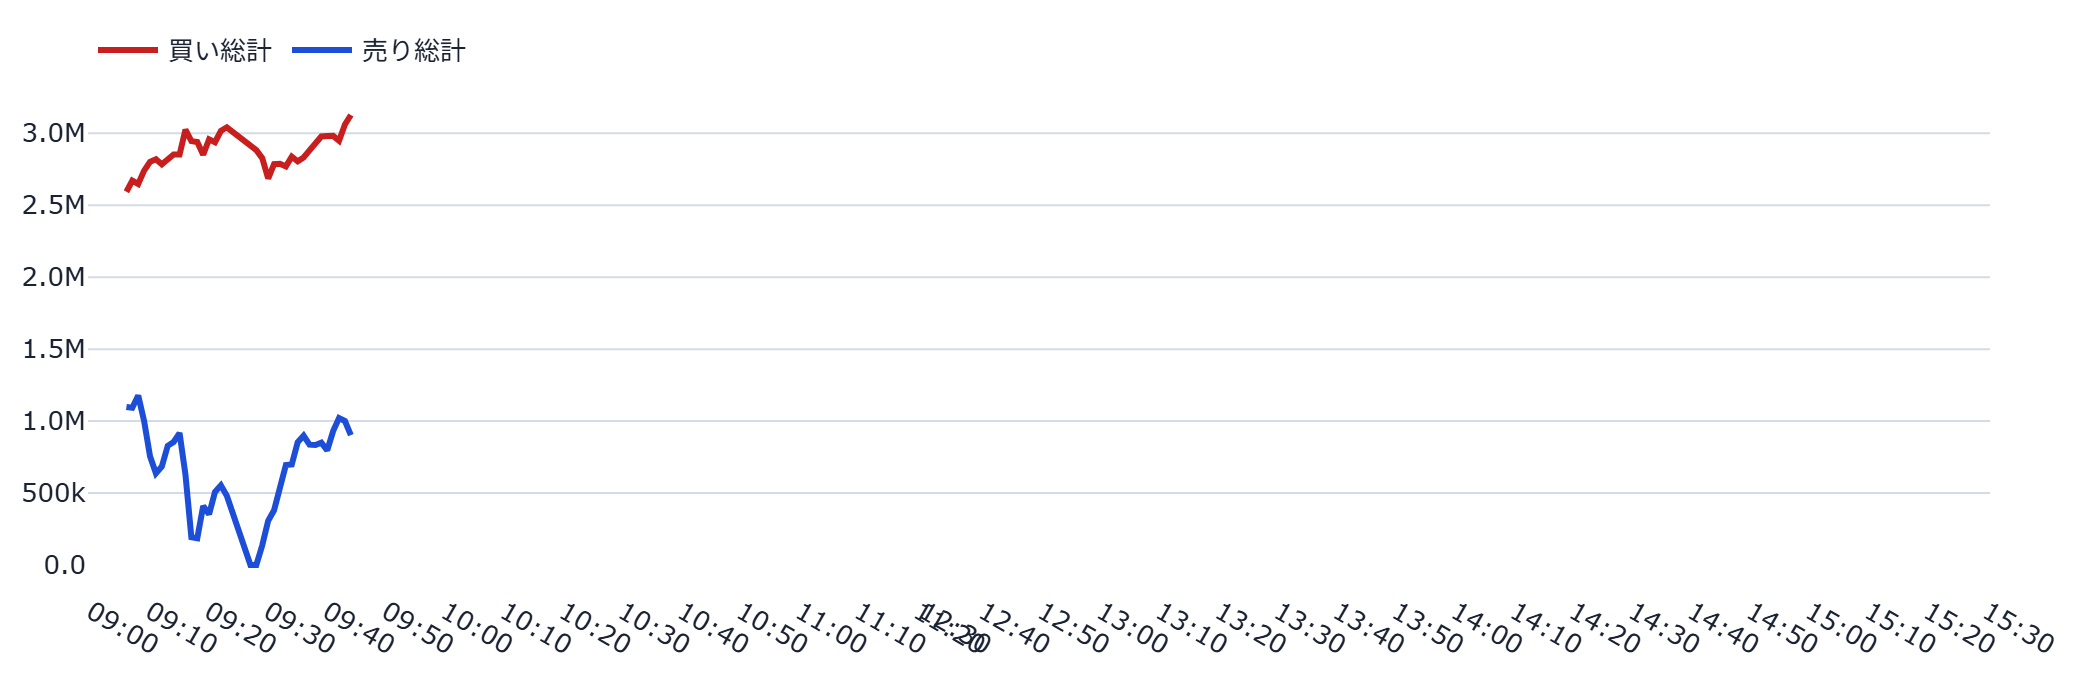
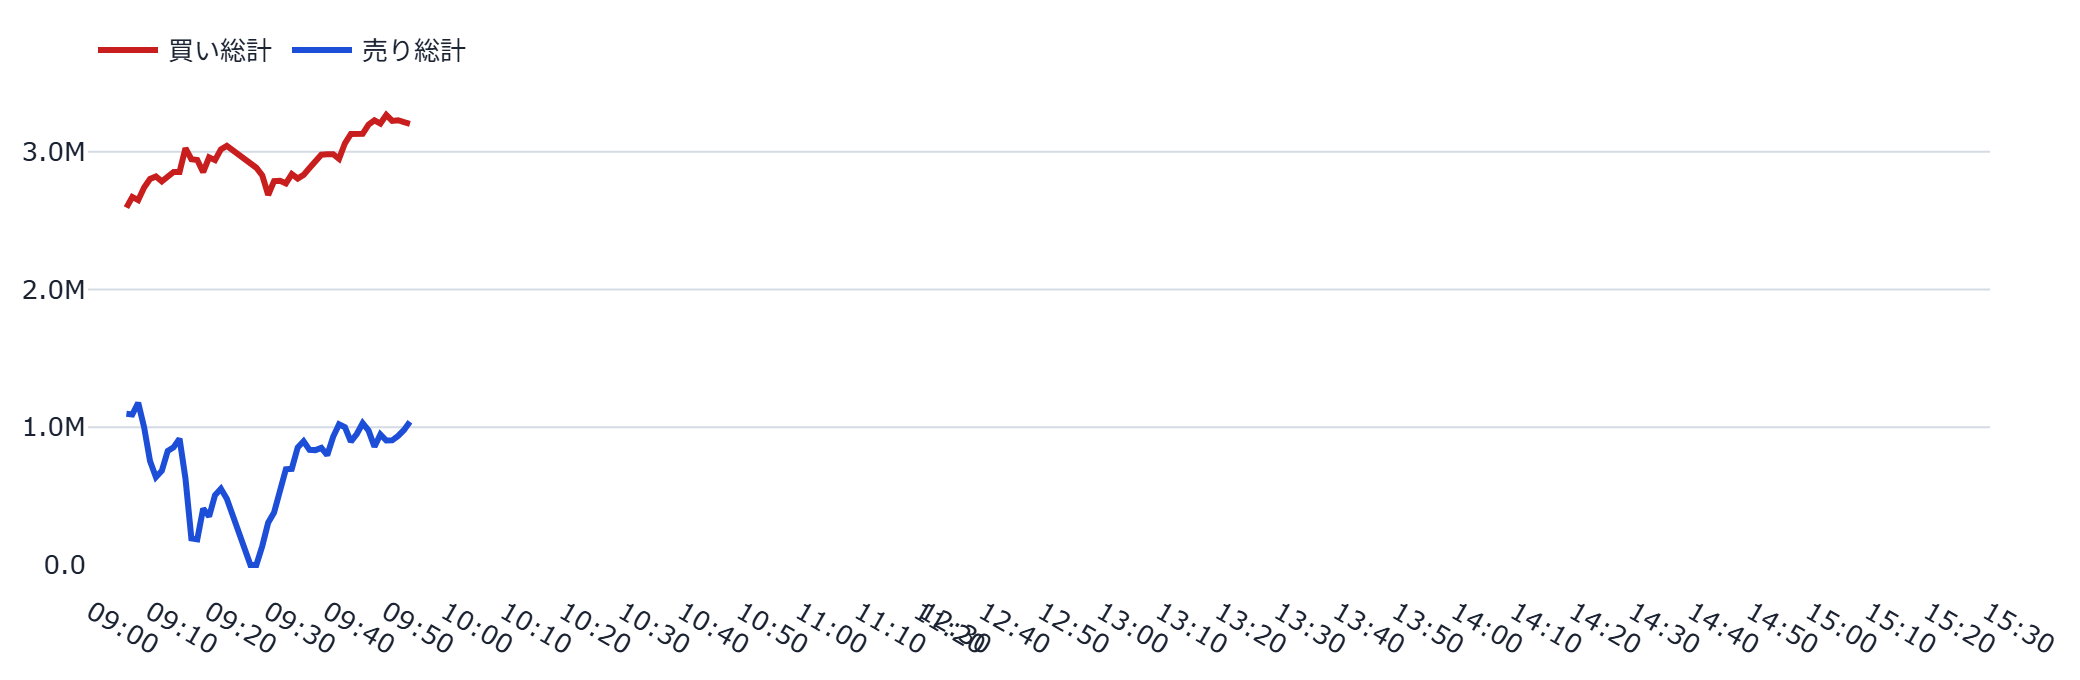
auto: refresh static dashboard (2026-11-26 09:55:10 JST)

diff --git a/docs/index.html b/docs/index.html
@@ -159,13 +159,13 @@
       <div class="panel header">
         <span class="symbol">285A</span>
         <span class="company">キオクシアホールディングス</span>
-        <span class="price">7,828円</span>
-        <span class="chg" style="color:#C81E1E">+13.53%</span>
+        <span class="price">7,827円</span>
+        <span class="chg" style="color:#C81E1E">+13.52%</span>
       </div>
       <p class="caption">更新時刻: 2026-11-26T09:37:25（データは1分間隔で自動生成され、このページも
       60秒毎に自動再読み込みされます）</p>
-      <p class='caption'>⚠ データの更新が約8分前から止まっている可能性があります(通常は1分毎に自動生成)。</p>
-      <p id='visit-count-badge' class='caption'>👀 累計閲覧数: 15,343</p>
+      <p class='caption'>⚠ データの更新が約18分前から止まっている可能性があります(通常は1分毎に自動生成)。</p>
+      <p id='visit-count-badge' class='caption'>👀 累計閲覧数: 15,345</p>
       <p id='like-button-wrap' class='caption'><button id='like-button' type='button' style='cursor:pointer;border:1px solid var(--border);border-radius:6px;padding:1px 10px;margin-right:6px;background:var(--panel);color:var(--text);font-size:1em;vertical-align:middle'>👍</button><span id='like-count-label'>このダッシュボードが役に立ったら押してください（累計 4 いいね）</span></p>
 
       <!-- ★2026-11-23(ユーザー指示「おにやの公開ダッシュボードもタブの再整理・分割」): AI考察を独立タブ(先頭・既定)にし、
@@ -185,11 +185,11 @@
 
       <section data-tab-panel="aiinsight">
         <h2>🤖 AI考察</h2>
-        <div class='sum3' id='sum3'><div class='l'><span class='k'>値位置・時間外</span><span>285A 7,828円(前営業日終値比 +13.53%)｜11/26 09:37時点｜時間外(東証最終値比) DEX +0.51%</span></div><div class='l'><span class='k'>需給・セリクラ</span><span>セリクラ成立チェック(1/3)(11/26 09:44時点)｜板の買い/売り比 3.71(11/26 09:44時点)</span></div><div class='l'><span class='k'>掲示板の心理</span><span>投稿の弱気 55.7%・強気 36.4%(本日5,411件)｜11/26 09:37時点</span></div><div class='n'>公開レコードの数値の言い換えです(予想ではありません)。</div></div>
+        <div class='sum3' id='sum3'><div class='l'><span class='k'>値位置・時間外</span><span>285A 7,827円(前営業日終値比 +13.52%)｜11/26 09:37時点｜時間外(東証最終値比) DEX +0.51%</span></div><div class='l'><span class='k'>需給・セリクラ</span><span>セリクラ成立チェック(0/3)(11/26 09:54時点)｜板の買い/売り比 3.01(11/26 09:54時点)</span></div><div class='l'><span class='k'>掲示板の心理</span><span>投稿の弱気 55.7%・強気 36.4%(本日5,411件)｜11/26 09:37時点</span></div><div class='n'>公開レコードの数値の言い換えです(予想ではありません)。</div></div>
         <div class='panel' id='ai-schedule'><h3>🗓 AI考察の予定</h3><ul><li>平日の立会日に、寄り前 08:50／寄り直後 09:10／前場引け前 11:30／大引け後 15:45 の4時点で考察を更新します（考察はClaude(AI)が書きます）。</li><li>土日祝などの休場日は考察を書きません。</li><li>時点の間は、数値のみを約10分ごとに更新します（文章は次の時点まで更新されません）。</li><li>次の予定: 11-26 11:30（前場引け前）／直近の更新: 11-26 09:10（自動生成）</li></ul></div>
-        <div class='panel' id='numeric-summary'><h3>📊 数値要約｜09:37 更新</h3><ul><li>株価: 7,828円（前営業日終値比 +13.53%）</li><li>掲示板: 強気 36.4%／弱気 55.7%／中立 7.9%・投稿 5,411件（約541件/時）</li><li>シグナル: 警戒＝灼熱メーター(過熱)(34.8)・イナゴ語彙(euphoria)(4.5)／平常＝そう思う大量票(32)・ネームド集中(0.03)・他銘柄混入率(0.02)・暴落煽り語彙(2.8)ほか</li><li>板・価格・見立て採点（参考・機械採点）: 板 買い/売り比 3.71（11/26 09:44時点）／約定ティック直近値 7,828円・VWAP距離 +157.2円（詳細は下の『板・価格まわり・見立ての採点』）</li><li>変化の読み: 東証: 5分 +0.27%・15分 -0.55%(取引が疎で、加速/減速の判定はしない)</li><li>変化の読み: PTS: 上昇が同程度のペースで継続(5分 +0.53%・1時間 +11.53%)／直近3時間の高値圏</li><li>変化の読み: DEX: 上昇基調だが勢いは鈍化(5分 +0.44%は1時間 +11.01%のペースより遅い)／直近3時間の高値圏</li><li>変化の読み: 同時間帯の比較(東証・PTS・DEX): 向きは上昇で揃っている</li><li>変化の読み: 東証ザラ場現値とDEXの乖離: DEX 7,807円は東証現値 7,830円より-0.29%(DEXは東証とは別の取引で、東証に先行して動くことがある参考指標・予告ではない・最終値の時刻差 5分)</li><li>変化点: 前営業日終値比 +4.38pt・投稿 +476件</li></ul><div class='rc-wrap' id='recent-table'><table class='rc'><caption>直近変化（東証行の終値比は前営業日終値比、PTS・ADR・DEXは東証最終値比。最終約定から120分超の行は薄グレー＝立会時間外）</caption><thead><tr><th>市場</th><th>最終値(円)</th><th>終値比</th><th>5分</th><th>15分</th><th>1時間</th><th>最終約定</th></tr></thead><tbody><tr class=''><td>東証</td><td>7,830</td><td class='pos'>+13.53%</td><td class='pos'>+0.27%</td><td class='neg'>-0.55%</td><td class=''>—</td><td>11/26 09:44</td></tr><tr class=''><td>PTS</td><td>7,838</td><td class=''>—</td><td class='pos'>+0.53%</td><td class='neg'>-0.72%</td><td class='pos'>+11.53%</td><td>11/26 09:40</td></tr><tr class='stale'><td>米国ADR(立会時間外)</td><td>6,973</td><td class=''>—</td><td class='pos'>+0.90%</td><td class='pos'>+1.62%</td><td class='pos'>+0.01%</td><td>11/26 05:59</td></tr><tr class=''><td>DEX</td><td>7,807</td><td class='pos'>+0.51%</td><td class='pos'>+0.44%</td><td class='neg'>-0.96%</td><td class='pos'>+11.01%</td><td>11/26 09:40</td></tr></tbody></table></div><p class='caption'>強気・弱気は機械判定（辞書＋軽量モデル）の値です。日単位の向きはLM判定と近く（相関0.8台）、時間単位は粗い点に注意してください。</p></div>
-        <div class='panel' id='screen-extras'><h3>🧭 板・価格まわり・見立ての採点（参考）</h3><ul><li>11/26 09:44時点｜買い総量 315.8万株／売り総量 85.2万株／比 3.71／差 +230.6万株</li><li>直近30秒: 買い +2.7万株(増加)／売り -5.2万株(減少)</li><li>直近1分: 買い +7.4万株(増加)／売り -18.2万株(減少)</li><li>直近3分: 買い +14.6万株(増加)／売り -10.9万株(減少)</li><li>直近5分: 買い +15.9万株(増加)／売り +7.4万株(増加)</li><li>11/26 09:44時点｜約定ティック直近値 7,828円(ヘッダーの株価とは取得元・時刻が異なる)／VWAP 7,670.8円（距離 +157.2円・+2.05%）</li><li>出来高 4,023.8万株／売買代金(試算) 3,086.6億円／日中高値 7,895円・安値 7,208円</li></ul><p class='caption'>板情報・約定ティック(遅延あり)から作成。売買代金は試算(VWAP×出来高)。</p></div>
-        <div class='metric-row'><div class='metric-card'><div class='metric-label'>株価</div><div class='metric-value'>7,828円</div><div class='metric-delta'>+302円</div></div><div class='metric-card'><div class='metric-label'>強気比率</div><div class='metric-value'>36.4%</div><div class='metric-delta'>+0.2pt</div></div><div class='metric-card'><div class='metric-label'>弱気比率</div><div class='metric-value'>55.7%</div><div class='metric-delta'>+0.1pt</div></div></div><p class='caption'>前回集計(2026-11-26T09:27:48)との比較</p>
+        <div class='panel' id='numeric-summary'><h3>📊 数値要約｜09:37 更新</h3><ul><li>株価: 7,827円（前営業日終値比 +13.52%）</li><li>掲示板: 強気 36.4%／弱気 55.7%／中立 7.9%・投稿 5,411件（約541件/時）</li><li>シグナル: 警戒＝灼熱メーター(過熱)(34.8)・イナゴ語彙(euphoria)(4.5)／平常＝そう思う大量票(32)・ネームド集中(0.03)・他銘柄混入率(0.02)・暴落煽り語彙(2.8)ほか</li><li>板・価格・見立て採点（参考・機械採点）: 板 買い/売り比 3.01（11/26 09:54時点）／約定ティック直近値 7,826円・VWAP距離 +140.2円（詳細は下の『板・価格まわり・見立ての採点』）</li><li>変化の読み: 東証: 5分 -0.25%・15分 +0.23%(取引が疎で、加速/減速の判定はしない)</li><li>変化の読み: PTS: 1時間では上昇(+11.38%)だが直近5分は下げている(-0.10%)＝上昇基調の中の押し(短い窓だけの動きで、続くかは未確認)／直近3時間の高値圏</li><li>変化の読み: DEX: 上昇基調だが勢いは鈍化(5分 +0.23%は1時間 +11.13%のペースより遅い)／直近3時間の高値圏</li><li>変化の読み: 同時間帯の比較(東証・PTS・DEX): 向きが分かれている(上昇=DEX／下落=PTS)</li><li>変化の読み: 東証ザラ場現値とDEXの乖離: DEX 7,830円は東証現値 7,827円より+0.04%(DEXは東証とは別の取引で、東証に先行して動くことがある参考指標・予告ではない・最終値の時刻差 5分)</li><li>変化点: 前営業日終値比 +4.37pt・投稿 +476件</li></ul><div class='rc-wrap' id='recent-table'><table class='rc'><caption>直近変化（東証行の終値比は前営業日終値比、PTS・ADR・DEXは東証最終値比。最終約定から120分超の行は薄グレー＝立会時間外）</caption><thead><tr><th>市場</th><th>最終値(円)</th><th>終値比</th><th>5分</th><th>15分</th><th>1時間</th><th>最終約定</th></tr></thead><tbody><tr class=''><td>東証</td><td>7,827</td><td class='pos'>+13.52%</td><td class='neg'>-0.25%</td><td class='pos'>+0.23%</td><td class=''>—</td><td>11/26 09:54</td></tr><tr class=''><td>PTS</td><td>7,830</td><td class=''>—</td><td class='neg'>-0.10%</td><td class='pos'>+0.42%</td><td class='pos'>+11.38%</td><td>11/26 09:47</td></tr><tr class='stale'><td>米国ADR(立会時間外)</td><td>6,973</td><td class=''>—</td><td class='pos'>+0.90%</td><td class='pos'>+1.62%</td><td class='pos'>+0.01%</td><td>11/26 05:59</td></tr><tr class=''><td>DEX</td><td>7,830</td><td class='pos'>+0.51%</td><td class='pos'>+0.23%</td><td class='pos'>+0.74%</td><td class='pos'>+11.13%</td><td>11/26 09:50</td></tr></tbody></table></div><p class='caption'>強気・弱気は機械判定（辞書＋軽量モデル）の値です。日単位の向きはLM判定と近く（相関0.8台）、時間単位は粗い点に注意してください。</p></div>
+        <div class='panel' id='screen-extras'><h3>🧭 板・価格まわり・見立ての採点（参考）</h3><ul><li>11/26 09:54時点｜買い総量 319.6万株／売り総量 106.2万株／比 3.01／差 +213.4万株</li><li>直近30秒: 買い -0.4万株(減少)／売り +3.0万株(増加)</li><li>直近1分: 買い -3.4万株(減少)／売り +7.3万株(増加)</li><li>直近3分: 買い -0.0万株(減少)／売り +10.9万株(増加)</li><li>直近5分: 買い -4.4万株(減少)／売り +11.4万株(増加)</li><li>11/26 09:54時点｜約定ティック直近値 7,826円(ヘッダーの株価とは取得元・時刻が異なる)／VWAP 7,685.8円（距離 +140.2円・+1.82%）</li><li>出来高 4,431.6万株／売買代金(試算) 3,406.1億円／日中高値 7,895円・安値 7,208円</li></ul><p class='caption'>板情報・約定ティック(遅延あり)から作成。売買代金は試算(VWAP×出来高)。</p></div>
+        <div class='metric-row'><div class='metric-card'><div class='metric-label'>株価</div><div class='metric-value'>7,827円</div><div class='metric-delta'>+301円</div></div><div class='metric-card'><div class='metric-label'>強気比率</div><div class='metric-value'>36.4%</div><div class='metric-delta'>+0.2pt</div></div><div class='metric-card'><div class='metric-label'>弱気比率</div><div class='metric-value'>55.7%</div><div class='metric-delta'>+0.1pt</div></div></div><p class='caption'>前回集計(2026-11-26T09:27:48)との比較</p>
         <div class='ai-box'>※無料公開データを機械的に集計した観測情報であり、投資助言・売買推奨ではありません。（11-26 09:10時点・寄り直後の整理です）<br>
 <br>
 ■ 寄り付き<br>
@@ -222,7 +222,7 @@
           <div class="panel">
             <figure><img src='images/gauge_capitulation.png' alt='阿鼻叫喚メーター(セリクラ)' loading='lazy'></figure>
             <figure><img src='images/spark_capitulation.png' alt='阿鼻叫喚メーター推移' loading='lazy'></figure>
-            <div id='selloff-check' style='margin-top:8px'><b>🚦 セリクラ成立チェック(1/3)</b><span class='caption'>（11/26 09:44時点）</span><ul style='margin:4px 0;padding-left:1.2em'><li>⚪ 心理発火(阿鼻叫喚指数)</li><li>🟢 板買い転換(直近3分)</li><li>－ 出来高＋安値切り上げ</li></ul><div class='caption'>別表示(3点に数えない) VWAP回復: はい（現値7,828円・VWAP7,670.8円(距離+157.2円)）</div><div class='caption'>3点が揃っても底の確定ではありません。研究用・未検証の参考表示です。 板・約定ティックは遅延あり。</div></div>
+            <div id='selloff-check' style='margin-top:8px'><b>🚦 セリクラ成立チェック(0/3)</b><span class='caption'>（11/26 09:54時点）</span><ul style='margin:4px 0;padding-left:1.2em'><li>⚪ 心理発火(阿鼻叫喚指数)</li><li>⚪ 板買い転換(直近3分)</li><li>－ 出来高＋安値切り上げ</li></ul><div class='caption'>別表示(3点に数えない) VWAP回復: はい（現値7,826円・VWAP7,685.8円(距離+140.2円)）</div><div class='caption'>3点が揃っても底の確定ではありません。研究用・未検証の参考表示です。 板・約定ティックは遅延あり。</div></div>
           </div>
           <div class="panel">
             <h3>ボラ・レジーム帯</h3>
@@ -273,7 +273,7 @@
         <h2>📐 値動きの目安</h2>
         <div class="panel">
           <h3>支持線・抵抗線の目安（SD単位）</h3>
-          <table style='width:100%;border-collapse:collapse;font-size:.92em'><thead><tr><th style='text-align:left'>値幅の目安</th><th style='text-align:left'>上側の水準</th><th style='text-align:left'>下側の水準</th></tr></thead><tbody><tr><td>0.5SD（±4.26%）</td><td>8,161円</td><td>7,495円</td></tr><tr><td>1.0SD（±8.52%）</td><td>8,495円</td><td>7,161円</td></tr><tr><td>1.5SD（±12.77%）</td><td>8,828円</td><td>6,828円</td></tr></tbody></table><p class='caption'>直近14日間の最高値（2026-11-11・9,571円）からの乖離: -18.21%</p><p class='caption'>SDは直近14日間の日次終値リターンの標準偏差（8.52%/日）から算出した値幅の目安であり、到達を予測するものではありません。</p>
+          <table style='width:100%;border-collapse:collapse;font-size:.92em'><thead><tr><th style='text-align:left'>値幅の目安</th><th style='text-align:left'>上側の水準</th><th style='text-align:left'>下側の水準</th></tr></thead><tbody><tr><td>0.5SD（±4.26%）</td><td>8,160円</td><td>7,494円</td></tr><tr><td>1.0SD（±8.52%）</td><td>8,494円</td><td>7,160円</td></tr><tr><td>1.5SD（±12.77%）</td><td>8,827円</td><td>6,827円</td></tr></tbody></table><p class='caption'>直近14日間の最高値（2026-11-11・9,571円）からの乖離: -18.22%</p><p class='caption'>SDは直近14日間の日次終値リターンの標準偏差（8.52%/日）から算出した値幅の目安であり、到達を予測するものではありません。</p>
         </div>
         <div class="panel">
           <h3>本日の値動き ÷ 執行コストの推移</h3>
@@ -285,7 +285,7 @@
         <h2>🌐 市場コンテキスト・海外要因</h2>
         <div class="panel">
           <h3>市場コンテキスト</h3>
-          <div class='metric-row'><div class='metric-card'><div class='metric-label'>本日の値動きの型</div><div class='metric-value' style='font-size:1.05rem'>トレンド型</div><div class='metric-delta'>不確実性: 普段並み</div></div><div class='metric-card'><div class='metric-label'>値動き ÷ 執行コスト</div><div class='metric-value'>約490.2倍</div><div class='metric-delta'>費用実測2.76bp</div></div></div><p class='caption'>海外ピアの値動き・本日の値動きの型はいずれも事実の記述であり、翌営業日の値動きを予測するものではありません。値動き÷執行コストは値幅の大きさの目安であり、実際に利益を確保できることを意味しません。</p>
+          <div class='metric-row'><div class='metric-card'><div class='metric-label'>本日の値動きの型</div><div class='metric-value' style='font-size:1.05rem'>トレンド型</div><div class='metric-delta'>不確実性: 普段並み</div></div><div class='metric-card'><div class='metric-label'>値動き ÷ 執行コスト</div><div class='metric-value'>約489.9倍</div><div class='metric-delta'>費用実測2.76bp</div></div></div><p class='caption'>海外ピアの値動き・本日の値動きの型はいずれも事実の記述であり、翌営業日の値動きを予測するものではありません。値動き÷執行コストは値幅の大きさの目安であり、実際に利益を確保できることを意味しません。</p>
         </div>
 
         <h2>📰 関連ニュース（直近24時間）</h2>
@@ -318,7 +318,7 @@
       <hr style="border:none;border-top:1px solid var(--border);margin:2rem 0 1rem">
       <p class="caption">⚠ 本情報は掲示板投稿を統計的に集計したものであり、投資助言ではありません。個別の投稿内容は含まれていません。研究・エンタメ用途です。</p>
       <div id="disclaimer-all"><p class='caption'>板・約定ティックは遅延あり。売買の推奨ではありません。<br>見立ての採点は参考・機械採点で、売買の推奨ではありません。<br>※研究・エンタメ用途・未検証。売買シグナルではありません。<br>※ニュース見出しの要約であり、投資助言ではありません。</p></div>
-      <footer>生成: generate_static_dashboard.py（2026-11-26T09:45:03） /
+      <footer>生成: generate_static_dashboard.py（2026-11-26T09:55:04） /
       画像バックエンド: plotly+kaleido</footer>
     </div>
     <script>(function(){var url="https://script.google.com/macros/s/AKfycbwgSSGQ2n56ohmIYKlNDA1Xe3D8hd3GJbD0U90L4DGtXdb8pqrPokNMHJWjvN1__7bE/exec";var KEY='bbs_visit_counted';var already=sessionStorage.getItem(KEY);var action=already?'read':'hit';var ctrl=(typeof AbortController!=='undefined')?new AbortController():null;var timer=ctrl?setTimeout(function(){ctrl.abort();},5000):null;fetch(url+'?action='+action,{signal:ctrl?ctrl.signal:undefined}).then(function(r){if(timer)clearTimeout(timer);return r.json();}).then(function(data){if(!already)sessionStorage.setItem(KEY,'1');if(data&&typeof data.count==='number'){var el=document.getElementById('visit-count-badge');if(el){el.textContent='\u{1F440} \u7d2f\u8a08\u95b2\u89a7\u6570: '+data.count.toLocaleString();el.style.display='';}}}).catch(function(e){if(timer)clearTimeout(timer);console.warn('visit counter fetch failed (fail-soft):',e);});})();</script><script>(function(){var url="https://script.google.com/macros/s/AKfycbwgSSGQ2n56ohmIYKlNDA1Xe3D8hd3GJbD0U90L4DGtXdb8pqrPokNMHJWjvN1__7bE/exec";var KEY='bbs_liked';var btn=document.getElementById('like-button');var label=document.getElementById('like-count-label');if(!btn||!label)return;function renderLiked(count){btn.disabled=true;btn.style.cursor='default';btn.style.opacity='0.6';btn.textContent='\u2705';label.textContent="\u3044\u3044\u306d\u3057\u307e\u3057\u305f\uff01"+(typeof count==='number'?"\uff08\u7d2f\u8a08 "+count.toLocaleString()+" \u3044\u3044\u306d\uff09":'');}if(localStorage.getItem(KEY)){renderLiked(null);}btn.addEventListener('click',function(){if(localStorage.getItem(KEY))return;btn.disabled=true;var ctrl=(typeof AbortController!=='undefined')?new AbortController():null;var timer=ctrl?setTimeout(function(){ctrl.abort();},5000):null;fetch(url+'?action=like_hit',{signal:ctrl?ctrl.signal:undefined}).then(function(r){if(timer)clearTimeout(timer);return r.json();}).then(function(data){localStorage.setItem(KEY,'1');renderLiked(data&&typeof data.count==='number'?data.count:null);}).catch(function(e){if(timer)clearTimeout(timer);btn.disabled=false;console.warn('like button fetch failed (fail-soft):',e);});});})();</script><script>(function(){var DEFAULT_TAB='aiinsight';function activate(tabName){var buttons=document.querySelectorAll('.tab-bar .tab-btn');var panels=document.querySelectorAll('[data-tab-panel]');if(!buttons.length||!panels.length)return;var matched=false;panels.forEach(function(p){var on=p.getAttribute('data-tab-panel')===tabName;if(on)matched=true;p.classList.toggle('tab-hidden',!on);});if(!matched){panels.forEach(function(p){p.classList.toggle('tab-hidden',p.getAttribute('data-tab-panel')!==DEFAULT_TAB);});tabName=DEFAULT_TAB;}buttons.forEach(function(b){var on=b.getAttribute('data-tab')===tabName;b.classList.toggle('active',on);b.setAttribute('aria-selected',on?'true':'false');});}document.addEventListener('DOMContentLoaded',function(){var bar=document.getElementById('tabBar');if(!bar)return;bar.addEventListener('click',function(e){var btn=e.target.closest('.tab-btn');if(!btn)return;var nm=btn.getAttribute('data-tab');activate(nm);try{sessionStorage.setItem('oniya_active_tab',nm);}catch(e){}});var saved=null;try{saved=sessionStorage.getItem('oniya_active_tab');}catch(e){}activate(saved||DEFAULT_TAB);});})();</script></body></html>
